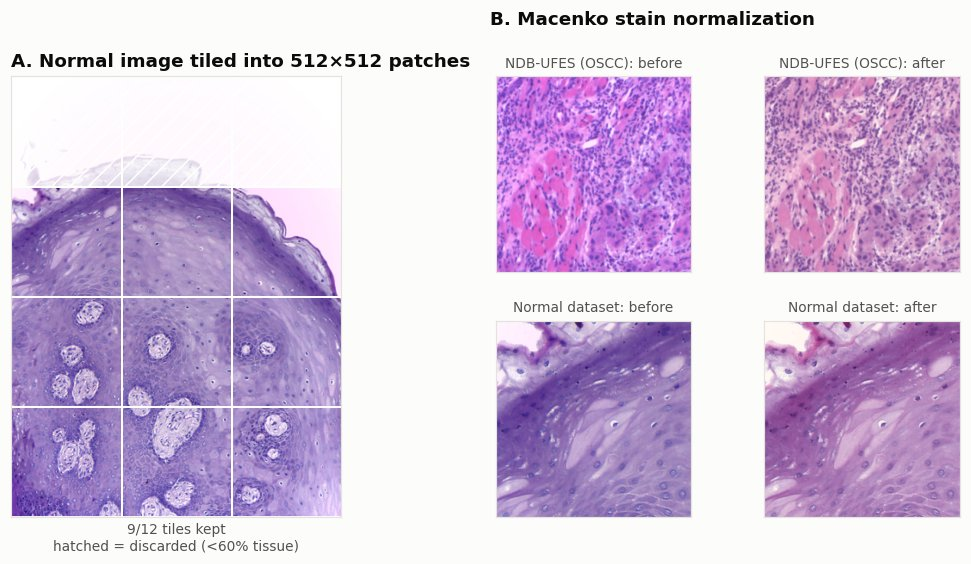
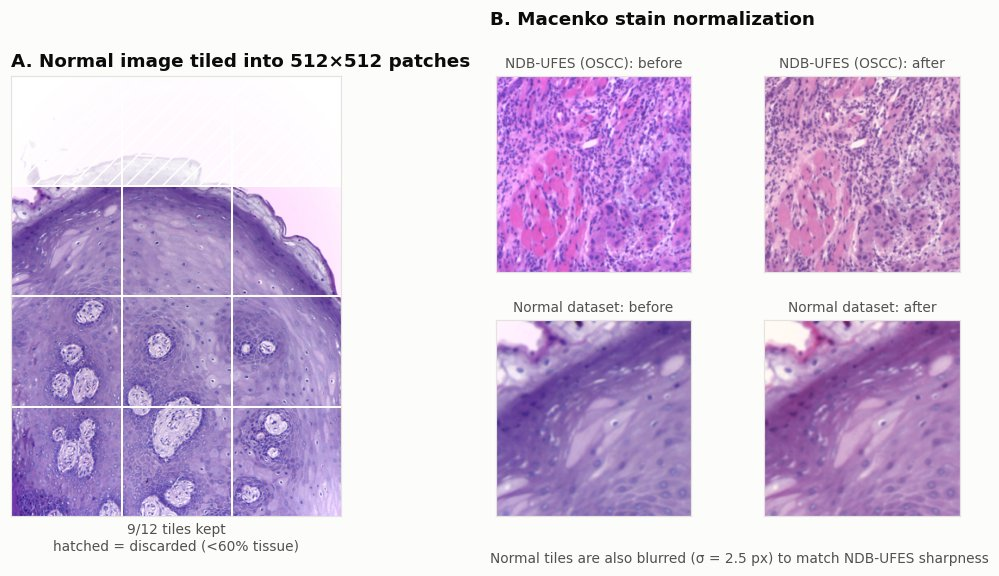
Apply sharpness matching to Normal tiles and add blur augmentation
- preprocess.py: Gaussian blur (sigma 2.5 px at 512 px) on tiled Normal
  images, calibrated with check_sharpness --calibrate-blur
- train_classifier.py: random Gaussian blur augmentation (p = 0.5)
- Verified on the regenerated data: sharpness at the 224 px model input
  now separates Normal with AUC 0.52 (was 0.95); brightness 0.76 and
  contrast 0.81 remain
- README / CLAUDE.md: sharpness finding, mitigation and status;
  preprocessing figure regenerated

diff --git a/scripts/data/preprocess.py b/scripts/data/preprocess.py
@@ -4,7 +4,7 @@ import shutil
 
 import numpy as np
 import pandas as pd
-from PIL import Image
+from PIL import Image, ImageFilter
 from tqdm import tqdm
 
 from oral_cancer.config import DATA_ROOT, OUTPUT_ROOT, resolve, relative
@@ -41,6 +41,13 @@ TILE_SIZE = 512
 # curated to exclude blank areas (~99% of them are >= 0.6 tissue),
 # so Normal tiles below 0.6 are discarded to match that curation.
 MIN_TISSUE_FRACTION = 0.6
+
+# Sharpness matching. NDB-UFES patches are much softer than the Normal
+# images (Laplacian sharpness at the 224 px model input separates the
+# two sources with AUC 0.95). A Gaussian blur of sigma 2.5 px at 512 px,
+# calibrated with `scripts.analysis.check_sharpness --calibrate-blur`,
+# brings that AUC to ~0.5. Applied to tiled (Normal) images only.
+TILE_BLUR_SIGMA = 2.5
 
 # Tissue detection uses optical density (OD) relative to each
 # image's own background (glass) colour. The Normal slides have
@@ -169,7 +176,10 @@ for _, row in tqdm(df.iterrows(), total=len(df), desc="Preprocessing"):
                 continue
 
             dest_path = out_dir / f"{src_path.stem}_r{r}_c{c}.png"
-            img.crop(box).save(dest_path, format="PNG")
+            tile = img.crop(box)
+            if TILE_BLUR_SIGMA > 0:
+                tile = tile.filter(ImageFilter.GaussianBlur(TILE_BLUR_SIGMA))
+            tile.save(dest_path, format="PNG")
             tiles_kept += 1
 
             records.append({

diff --git a/scripts/classification/train_classifier.py b/scripts/classification/train_classifier.py
@@ -97,6 +97,9 @@ def build_transforms(img_size, grayscale):
         # Strong colour augmentation so the model cannot rely on the
         # residual stain differences between the two source datasets
         transforms.ColorJitter(brightness=0.25, contrast=0.25, saturation=0.25, hue=0.05),
+        # Random blur on all classes, so residual sharpness differences
+        # between the two source datasets are not a reliable cue
+        transforms.RandomApply([transforms.GaussianBlur(kernel_size=9, sigma=(0.1, 1.5))], p=0.5),
         *gray,
         transforms.ToTensor(),
         transforms.Normalize(IMAGENET_MEAN, IMAGENET_STD),

diff --git a/scripts/reporting/make_readme_figures.py b/scripts/reporting/make_readme_figures.py
@@ -186,6 +186,8 @@ def fig_preprocessing(pre, norm):
             ax.set_title(f"{label}: {title}", fontsize=9, fontweight="normal", color=TEXT_SECONDARY)
 
     fig.text(0.535, 0.97, "B. Macenko stain normalization", fontweight="bold", fontsize=12)
+    fig.text(0.535, 0.03, "Normal tiles are also blurred (σ = 2.5 px) to match NDB-UFES sharpness",
+             color=TEXT_SECONDARY, fontsize=9)
     save(fig, "preprocessing.jpg", photo=True)
 
 

diff --git a/CLAUDE.md b/CLAUDE.md
@@ -57,7 +57,9 @@ Pipeline order:
   - Colour-only AUC is 0.999 before and 0.974 after Macenko normalisation.
   - In greyscale, Normal F1 is still about 99%.
   - Grad-CAM puts about 65% of Normal heatmaps on the patch border, versus about 50% for the other classes. This happens for edge and interior tiles alike.
-  - So Normal is likely recognised from a global image property (sharpness / texture / scale suspected). Treat Normal results as optimistic.
+  - **Confirmed cause: sharpness.** Laplacian variance at 224px alone separates Normal with AUC 0.946; Normal is about 5x sharper. Brightness (0.83) and contrast (0.85) also differ.
+  - **Fix:** `preprocess.py` blurs Normal tiles (`TILE_BLUR_SIGMA = 2.5`, calibrated with `check_sharpness --calibrate-blur`), which brings the sharpness AUC to about 0.50. Training adds random blur.
+  - Treat Normal results as optimistic. The 3-class NDB-UFES result is the primary benchmark.
 - **NDB-UFES folds are patch-level**, not patient-level, so results are optimistic. This includes published benchmarks; the main one is Maia et al. 2024 with DenseNet-121 at 91.9% balanced accuracy.
 - **SAM/MedSAM at 1024px uses about 0.8 GB of GPU memory per image** in one attention tensor. Keep the batch size at 2 or less and use fp16 on a T4.
 - **Tissue detection on the Normal images needs per-image optical density.** Their glass background has strong colour casts, which break fixed colour thresholds.
@@ -72,7 +74,7 @@ Pipeline order:
 - README figures.
 
 **Next:**
-1. Test the sharpness-shortcut hypothesis (Laplacian variance as a single-feature classifier). Mitigate it if confirmed, e.g. by sharpness matching or blur augmentation, then retrain.
+1. Retrain on the sharpness-matched data (re-upload the Kaggle dataset first) and compare Normal accuracy with the pre-fix runs.
 2. Multi-seed runs (mean ± SD); a 384px experiment.
 3. Inference script / demo; final report.
 
